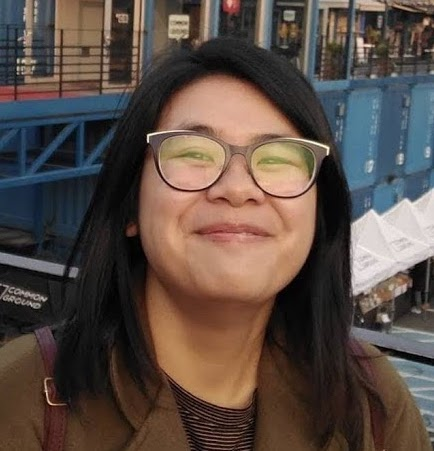
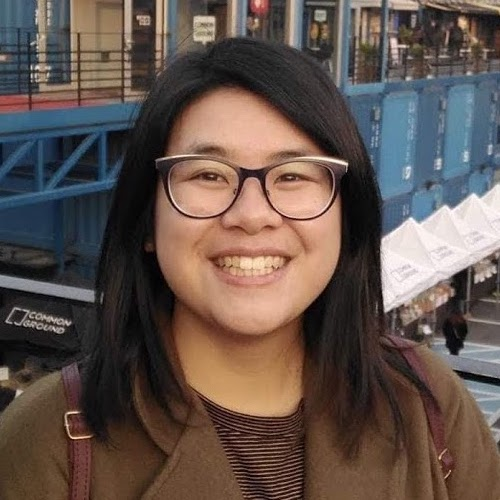
update description and picture

diff --git a/index.html b/index.html
@@ -58,7 +58,7 @@
 						<div class="container">
 
 							<header>
-								<h2 class="alt">Hi! I'm <strong>Adriena</strong>, a computer science student from Toronto, Canada and welcome to my portfolio.</h2>
+								<h2 class="alt">Hi! I'm <strong>Adriena</strong>, a recent computer science graduate from Toronto, Canada and welcome to my portfolio.</h2>
 								<!-- <p>Thank you for visiting! <br /> -->
 								</p>
 							</header>
@@ -79,7 +79,7 @@
 								<h2>Projects</h2>
 							</header>
 
-							<p>Here are a few of the data projects I've recently worked on.</p>
+							<p>Here are a few of the projects I've recently worked on.</p>
 
 							<div class="row">
 								<div class="col-6 col-12-mobile">
@@ -256,15 +256,11 @@
 
 							<a class="image centred"><img src="images/self2.jpg" alt="" /></a>
 
-							<p align="left">Throughout my years as a student, I was incredibly indecisive about what I wanted to study, even choosing a program that offered two degrees: mathematics and business, since there were aspects of both disciplines that interested me.
-								Eventually, I would also add computer science to that list after taking my first few programming courses and loving the subject.
-								When I was finally introduced to data science and analytics, I was ecstatic to find that it blends all my favourite subjects together.
-								When I completed my first data science project, involving web-scraping visual properties from thousands of websites and blogs in hopes of finding patterns and insights from the data, I realized that there was so much more we could learn from all the data in this world.
-								Ever since, I have been trying to learn as much as I can about the subject while improving my technical skillset, hoping to be able to uncover more interesting findings in our world's data.
+							<p align="left">I am passionate about data and how it can be used to bring about insights to challenging business problems. My recent roles have been focused on data analytics, data processing, and machine learning. I am constantly trying to learn as much as I can about data science and software development while improving my technical skillset, hoping to be able to uncover more insights in our world's data. 
 								<br>
 								<br>
-								I am currently a student in the Professional Master's of Computing Science specializing in Big Data at Simon Fraser University in Burnaby, British Columbia and will be graduating in April 2021. 
-								When I'm not thinking about data, you can find me delving into my other interests such as painting, playing video games, or improving my musical skills through piano and acoustic guitar.<br><br>
+								I am currently a recent graduate from the Professional Master's of Computing Science specializing in Big Data at Simon Fraser University in Burnaby, British Columbia. I also have a strong Mathematical and Statistical background with a Bachelor of Mathematics from the University of Waterloo. 
+When I'm not thinking about data, you can find me delving into my other interests such as painting, playing video games, or improving my musical skills through piano and acoustic guitar.<br><br>
 								For any inquiries, please reach me via LinkedIn or email.</p>
 
 						</div>
